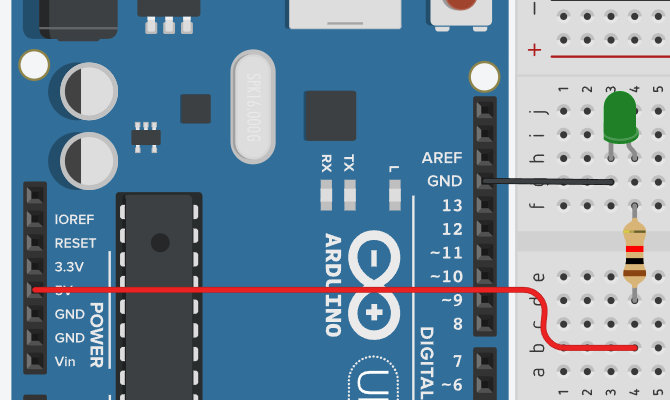
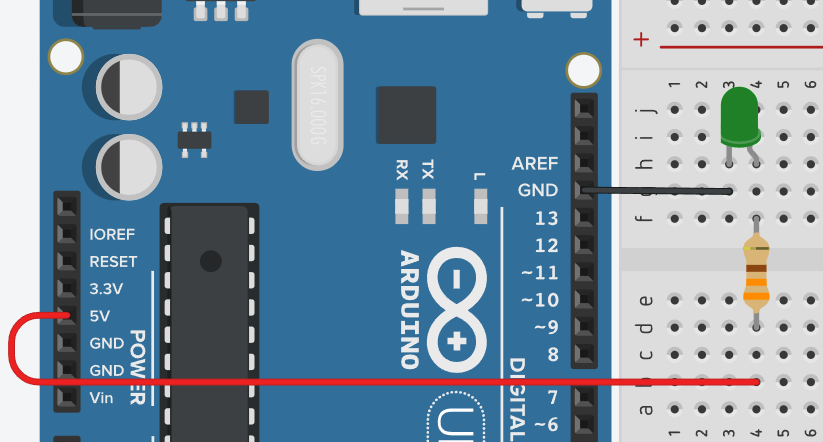
Update LED chapter: PWM, RGB, examples
Revise LED chapter: refactor sections and examples for clarity and PWM/RGB usage. Made subsection unnumbered, adjusted image sizing, replaced circuitikz diagram with raster image, and updated recommended resistor from 220Ω to 330Ω. Rewrote RGB table to use HIGH/LOW notation and added note about 256^3 color combinations. Introduced named const pin variables (ledPin / pinLed / PIN_R/PIN_G/PIN_B) and replaced hardcoded pin numbers in examples; added delay and analogWrite example sketches demonstrating PWM and RGB color control. Added LED_RGB image assets and updated/changed circuit images. Also updated main.tex title and commented out unused chapter includes.

diff --git a/Arduino/LED.tex b/Arduino/LED.tex
@@ -54,7 +54,7 @@ materiali diversi corrispondono a livelli energetici diversi, e quindi a colori 
     la percezione del bianco da parte dell'occhio umano.
 \end{tcolorbox}
 
-\subsection{Polarità del LED: anodo e catodo}
+\subsection*{Polarità del LED: anodo e catodo}
 
 Come tutti i diodi, il LED è un componente \textbf{polarizzato}: ha un terminale positivo e uno negativo, e deve essere collegato nel verso giusto per funzionare.
 
@@ -269,7 +269,7 @@ Se il circuito viene fatto utilizzando come generatore di tensione una scheda Ar
     \hfill
     \begin{minipage}{0.45\textwidth}  % Larghezza della minipagina per l'immagine
         \centering
-        \includegraphics[width=0.71\textwidth]{img/Circuito_Led_Arduino.png}
+        \includegraphics[width=0.6\textwidth]{img/Circuito_Led_Arduino.png}
         \caption{\centering Circuito per accendere \protect\\il LED con Arduino.}
         \label{fig:Circuito_LED_Arduino}
     \end{minipage}%
@@ -290,10 +290,10 @@ Il \textbf{LED RGB} è un componente che racchiude all'interno dello stesso comp
 Un LED RGB ha quattro terminali: tre anodi (uno per ciascun colore) e un catodo comune, oppure tre catodi e un anodo comune. Le due configurazioni possibili sono:
 
 \begin{itemize}
-    \item \textbf{Catodo comune} (Common Cathode): tutti e tre i catodi sono collegati insieme al terminale negativo. Per accendere un colore, si applica una tensione positiva all'anodo corrispondente.
     \item \textbf{Anodo comune} (Common Anode): tutti e tre gli anodi sono collegati insieme al terminale positivo. Per accendere un colore, si porta a massa (GND) il catodo corrispondente.
-\end{itemize}
+    \item \textbf{Catodo comune} (Common Cathode): tutti e tre i catodi sono collegati insieme al terminale negativo. Per accendere un colore, si applica una tensione positiva all'anodo corrispondente.
 
+\end{itemize}
 \begin{tcolorbox}[colback=blue!4, colframe=blue!60, title=\textbf{Quale usare con Arduino?}]
     La maggior parte dei kit didattici utilizza LED RGB a \textbf{catodo comune}. In questo caso il pin comune va collegato a GND, e i tre pin dei colori vanno collegati ad Arduino attraverso tre resistenze di limitazione (una per canale). Per un LED RGB ad anodo comune, il pin comune va collegato a \SI{5}{\volt} e i pin dei colori vanno portati a GND per accendere il LED (logica invertita).
 \end{tcolorbox}
@@ -307,38 +307,35 @@ I tre LED interni possono essere accesi singolarmente o in combinazione. La tabe
     \toprule
     Colore risultante & Rosso (R) & Verde (G) & Blu (B) \\
     \midrule
-    Rosso    & ON  & OFF & OFF \\
-    Verde    & OFF & ON  & OFF \\
-    Blu      & OFF & OFF & ON  \\
-    Giallo   & ON  & ON  & OFF \\
-    Ciano    & OFF & ON  & ON  \\
-    Magenta  & ON  & OFF & ON  \\
-    Bianco   & ON  & ON  & ON  \\
-    Nero (spento) & OFF & OFF & OFF \\
+    Rosso    & HIGH  & \textcolor{lightgray}{LOW} & \textcolor{lightgray}{LOW} \\
+    Verde    & \textcolor{lightgray}{LOW} & HIGH  & \textcolor{lightgray}{LOW} \\
+    Blu      & \textcolor{lightgray}{LOW} & \textcolor{lightgray}{LOW} & HIGH  
+    \vspace{0.4cm}\\
+    
+    Ciano    & \textcolor{lightgray}{LOW} & HIGH  & HIGH  \\
+    Magenta  & HIGH  & \textcolor{lightgray}{LOW} & HIGH \\
+    Giallo   & HIGH  & HIGH  & \textcolor{lightgray}{LOW} 
+        \vspace{0.4cm}\\
+    Bianco   & HIGH  & HIGH  & HIGH  \\
+    Spento   & \textcolor{lightgray}{LOW} & \textcolor{lightgray}{LOW} & \textcolor{lightgray}{LOW} \\
     \bottomrule
 \end{tabular}
 \end{center}
 
-Variando l'intensità di ciascun canale tramite PWM si ottengono infinite sfumature. Ad esempio, un rosso intenso si ottiene con R=255, G=0, B=0; un arancione si può ottenere con R=255, G=80, B=0.
+Variando l'intensità di ciascun canale tramite PWM si ottengono infinite sfumature. Ad esempio, un rosso intenso si ottiene con R=255, G=0, B=0; un arancione si può ottenere con R=255, G=80, B=0. Potendo usare 256 livelli di intensità per ciascun colore del LED RGB, si possono generare $256^3 = 16.777.216$ combinazioni diverse.
 
 \subsection*{Schema di collegamento}
 
-Colleghiamo un LED RGB a catodo comune ai pin digitali di Arduino. Utilizziamo tre resistenze di limitazione, una per ogni colore. Il calcolo della resistenza è identico a quello visto per il LED singolo, usando la $V_f$ di ogni colore (tipicamente: rosso $\SI{2.0}{\volt}$, verde $\SI{2.2}{\volt}$, blu $\SI{3.2}{\volt}$). Per semplicità, con alimentazione a \SI{5}{\volt} e una corrente di circa \SI{10}{\milli\ampere}, si possono usare resistenze da \SI{220}{\ohm} per tutti e tre i canali.
+Colleghiamo un LED RGB a catodo comune ai pin digitali di Arduino. Utilizziamo tre resistenze di limitazione, una per ogni colore. Il calcolo della resistenza è identico a quello visto per il LED singolo, usando la $V_f$ di ogni colore (tipicamente: rosso $\SI{2.0}{\volt}$, verde $\SI{2.2}{\volt}$, blu $\SI{3.2}{\volt}$). Per semplicità, con alimentazione a \SI{5}{\volt} e una corrente di circa \SI{10}{\milli\ampere}, si possono usare resistenze da \SI{330}{\ohm} per tutti e tre i canali.
 
 \begin{figure}[h]
     \centering
-    \begin{circuitikz}[scale=1.2, american]
-        \draw (0,0) node[ground]{} to[short] (0,1) node[below]{GND};
-        \draw (0,1) to[led, l=Rosso, color=red] (2,1) to[R, l=220$\Omega$] (2,3) to[short] (3,3) node[above]{Pin 9};
-        \draw (0,1) to[led, l=Verde, color=green] (0,3) to[R, l=220$\Omega$] (0,5) to[short] (1,5) node[above]{Pin 10};
-        \draw (0,1) to[led, l=Blu, color=blue] (-2,1) to[R, l=220$\Omega$] (-2,3) to[short] (-3,3) node[above]{Pin 11};
-    \end{circuitikz}
-    \caption{Collegamento di un LED RGB a catodo comune con Arduino. Il terminale comune va a GND.}
-    \label{fig:led_rgb_schema}
+    \includegraphics[width=0.35\textwidth]{img/LED_RGB.png}
+    \caption{Schema di collegamento di un LED RGB a catodo comune con Arduino.}
+    \label{fig:LED_RGB_Arduino}
 \end{figure}
 
-
-
+Ricordiamo che per poter controllare la luminosità di ciascun colore è necessario utilizzare i pin digitali con funzionalità PWM e la funzione \texttt{analogWrite()} per variare il duty cycle del segnale.
 
 
 
@@ -435,7 +432,7 @@ Mentre per spegnere il led bisognerà scrivere:
 
 
 
-\subsection{Lampeggio del LED}
+\subsection{Lampeggio del LED e funzione \texttt{delay/(ms);}}
 
 Proviamo subito a far lampeggiare un LED, accendendolo e spegnendolo all'interno della funzione \texttt{void loop()}. Abbiamo anche bisogno di dichiarare che il pin dove verrà collegato il LED è un pin di \texttt{OUTPUT}, quindi scriveremo \texttt{pinMode()} all'interno della funzione \texttt{void setup()}.
 Quindi il codice completo per far lampeggiare un LED collegato al pin 6 dovrebbe essere il seguente:
@@ -473,9 +470,9 @@ void loop() {
 Se proviamo a caricare questo \textit{sketch} su Arduino, vedremo che il funzionamento atteso non rispecchia quello che stiamo notando sul nostro LED: il LED si accende e si spegne così rapidamente che sembra essere sempre acceso. 
 Ricordiamo che la funzione \texttt{void loop()} viene eseguita in modo continuo e ciclico, quindi il LED viene acceso e spento migliaia di volte al secondo. Questa velocità di esecuzione è troppo elevata per essere percepita dall'occhio umano, che appunto vede il LED sempre acceso.
 
-Per risolvere questo problema, dobbiamo inserire una pausa tra l'accensione e lo spegnimento del LED. La funzione \texttt{delay()} ci permette di bloccare l'esecuzione del programma per un certo numero di \textbf{millisecondi}. Se vogliamo che il LED rimanga acceso per 1 secondo e poi spento per 1 secondo, dobbiamo inserire un \texttt{delay(1000);} dopo ogni comando di accensione o spegnimento:
+Per risolvere questo problema, dobbiamo inserire una pausa tra l'accensione e lo spegnimento del LED. La funzione \texttt{delay()} ci permette di bloccare l'esecuzione del programma per un certo numero di \textbf{millisecondi}. Se vogliamo che il LED rimanga acceso per 1 secondo e poi spento per 1 secondo, dobbiamo inserire un \texttt{delay(1000);} dopo ogni comando di accensione o spegnimento.\\
 
-
+Inoltre, aggiungiamo in questo codice una riga per creare una variabile che contiene il numero del pin a cui è collegato il LED, in modo da rendere il codice più leggibile e facilmente modificabile in futuro.
 
 \begin{tcblisting}{
     listing only,
@@ -497,14 +494,16 @@ Per risolvere questo problema, dobbiamo inserire una pausa tra l'accensione e lo
         morekeywords={pinMode, digitalWrite, delay, OUTPUT, HIGH, LOW, void, const, int}
     }
 }
+const int ledPin = 6;  // Pin a cui è collegato il LED
+
 void setup() {
-    pinMode(6, OUTPUT);
+    pinMode(ledPin, OUTPUT);
 }
 
 void loop() {
-    digitalWrite(6, HIGH);
+    digitalWrite(ledPin, HIGH);
     delay(1000);          // Aspetta 1000 millisecondi (1 secondo)
-    digitalWrite(6, LOW);
+    digitalWrite(ledPin, LOW);
     delay(1000);          // Aspetta 1000 millisecondi (1 secondo)
 }
 \end{tcblisting}
@@ -512,10 +511,17 @@ void loop() {
 
 \textbf{Analisi del codice riga per riga:}
 \begin{itemize}
-    \item \textbf{Riga 2} - \texttt{pinMode(6, OUTPUT);}: eseguita una sola volta all'avvio, configura il pin 13 come uscita digitale.
-    \item \textbf{Riga 6} - \texttt{digitalWrite(6, HIGH);}: porta il pin 13 a \SI{5}{\volt}. La corrente scorre attraverso la resistenza e il LED, che si accende.
-    \item \textbf{Riga 7 e Riga 9} - \texttt{delay(1000);}: il programma si blocca per 1000 ms. Durante questo tempo il LED rimane nello stato in cui si trova.
-    \item \textbf{Riga 8} - \texttt{digitalWrite(6, LOW);}: porta il pin 13 a \SI{0}{\volt}. Nessuna differenza di tensione, nessuna corrente, LED spento.
+    \item \textbf{Riga 1} - \texttt{const int ledPin = 6;}: dichiara una variabile costante di tipo intero chiamata \texttt{ledPin} e le assegna il valore 6, che rappresenta il numero del pin digitale a cui è collegato il LED.
+    \begin{itemize}
+        \item \texttt{int} indica che la variabile è di tipo intero
+        \item \texttt{const} indica che il valore di questa variabile non può essere modificato durante l'esecuzione del programma, se per errore si tenta di assegnare un nuovo valore a \texttt{ledPin}, il compilatore genererà un errore, proteggendo così la costante da modifiche accidentali.
+        \item L'uso di una variabile con nome significativo come \texttt{ledPin} rende il codice più leggibile e facile da capire, rispetto a usare direttamente il numero 6 in tutto il programma. Si può facilmente modificare il numero del pin in un solo punto (la dichiarazione della variabile) se si decide di collegare il LED a un pin diverso in futuro, senza dover cercare e sostituire ogni occorrenza del numero 6 nel codice.
+    \end{itemize}
+    , mentre 
+    \item \textbf{Riga 4} - \texttt{pinMode(ledPin, OUTPUT);}: eseguita una sola volta all'avvio, configura il pin ledPin come uscita digitale.
+    \item \textbf{Riga 8} - \texttt{digitalWrite(ledPin, HIGH);}: porta il pin 13 a \SI{5}{\volt}. La corrente scorre attraverso la resistenza e il LED, che si accende.
+    \item \textbf{Riga 9 e Riga 11} - \texttt{delay(1000);}: il programma si blocca per 1000 ms. Durante questo tempo il LED rimane nello stato in cui si trova.
+    \item \textbf{Riga 10} - \texttt{digitalWrite(ledPin, LOW);}: porta il pin ledPin a \SI{0}{\volt}. Nessuna differenza di tensione, nessuna corrente, LED spento.
 \end{itemize}
 
 \subsection{Variare la luminosità: PWM e \texttt{analogWrite()}}
@@ -584,21 +590,70 @@ Quindi possiamo ora scrivere un programma che accende un LED al 20\% di luminosi
         numberstyle=\tiny\color{gray},
         breaklines=true,
         showstringspaces=false,
-        morekeywords={pinMode, digitalWrite, delay, OUTPUT, HIGH, LOW, void, const, int}
+        morekeywords={pinMode, analogWrite, digitalWrite, delay, OUTPUT, HIGH, LOW, void, const, int}
     }
 }
+const int pinLed = 6;
+
 void setup() {
-  pinMode(6, OUTPUT);
+  pinMode(pinLed, OUTPUT);
 }
 
 void loop() {
-    analogWrite(6, 51);     // Accende il LED con duty cycle 20 %
-    delay(1000);            // Aspetta 1000 millisecondi 
-    analogWrite(6, 0);      // Spegne il LED con duty cycle 0 %
-    delay(1000);            // Aspetta 1000 millisecondi 
-    analogWrite(6, 204);    // Accende il LED con duty cycle 80 %
-    delay(1000);            // Aspetta 1000 millisecondi 
-    analogWrite(6, 0);      // Spegne il LED con duty cycle 0 %
-    delay(1000);            // Aspetta 1000 millisecondi 
+    analogWrite(pinLed, 51);  // Accende il LED con duty cycle 20 %
+    delay(1000);               
+    analogWrite(pinLed, 0);   // Spegne il LED con duty cycle 0 %
+    delay(1000);               
+    analogWrite(pinLed, 204); // Accende il LED con duty cycle 80 %
+    delay(1000);              
+    analogWrite(pinLed, 0);   // Spegne il LED con duty cycle 0 %
+    delay(1000);              
 }
 \end{tcblisting}
+
+
+\subsection{LED RGB}
+
+Grazie al PWM possiamo controllare non solo la luminosità di un singolo LED, ma anche il colore di un LED RGB, miscelando in proporzioni variabili l'intensità dei tre canali Rosso, Verde e Blu.
+
+\subsubsection*{Accendere un colore primario}
+
+Per ottenere rosso, verde o blu puri, si accende a pieno il canale corrispondente (valore 255) e si spengono gli altri (valore 0). Ad esempio, per il rosso:
+
+\begin{tcblisting}{
+    listing only,
+    listing engine=listings,
+    colback=teal!5,
+    colframe=teal!50,
+    title=\textbf{Colore rosso},
+    breakable,
+    listing options={
+        language=C++,
+        basicstyle=\ttfamily\small,
+        keywordstyle=\color{blue!80!black}\bfseries,
+        commentstyle=\color{green!50!black}\itshape,
+        stringstyle=\color{orange!80!black},
+        numbers=left,
+        numberstyle=\tiny\color{gray},
+        breaklines=true,
+        showstringspaces=false,
+    }
+}
+const int PIN_G = 3;  // Pin Verde
+const int PIN_B = 5;  // Pin Blu
+const int PIN_R = 6;  // Pin Rosso
+
+void setup() {
+    pinMode(PIN_G, OUTPUT);
+    pinMode(PIN_B, OUTPUT);
+    pinMode(PIN_R, OUTPUT);
+}
+void loop() {
+    analogWrite(PIN_R, 255);
+    analogWrite(PIN_G, 0);
+    analogWrite(PIN_B, 0);
+    delay(2000);
+}
+\end{tcblisting}
+
+

diff --git a/Arduino/main.tex b/Arduino/main.tex
@@ -1,7 +1,7 @@
 \documentclass[a4paper, 11pt]{book}
 \input{../config/config}
 
-\title{\Huge{Arduino - Componenti di Base}}
+\title{\Huge{Introduzione ad Arduino\\Programmazione e  Componenti di Base}}
 
 \begin{document}
 
@@ -10,10 +10,13 @@
 
 \include{LED}
 
+\begin{comment}
+    
 \chapter{Pulsante}
 \chapter{Potenziometro}
 \chapter{Fotoresistore}
 \chapter{Sensore di Distanza HC-SR04}
+\end{comment}
 
 
 
